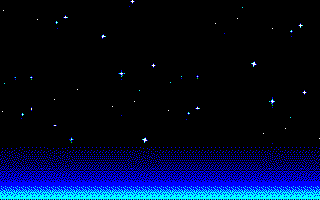
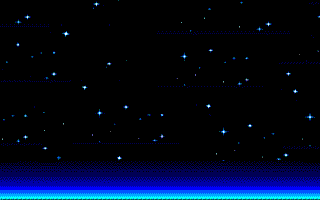
optimized colour palette

diff --git a/experimental/dos-lovedos-space-invaders/README.md b/experimental/dos-lovedos-space-invaders/README.md
@@ -6,4 +6,4 @@ Space Invaders written in Lua for MS-DOS
 
 Powered by [LoveDOS](https://github.com/rxi/lovedos)
 
-![image](https://user-images.githubusercontent.com/1466920/219969569-96ad11c3-de2c-4c1f-8ef8-89cf247eba81.png)
+![image](https://user-images.githubusercontent.com/1466920/219971408-93749d7e-554d-40f0-9c52-cfd1ab3047f3.png)
